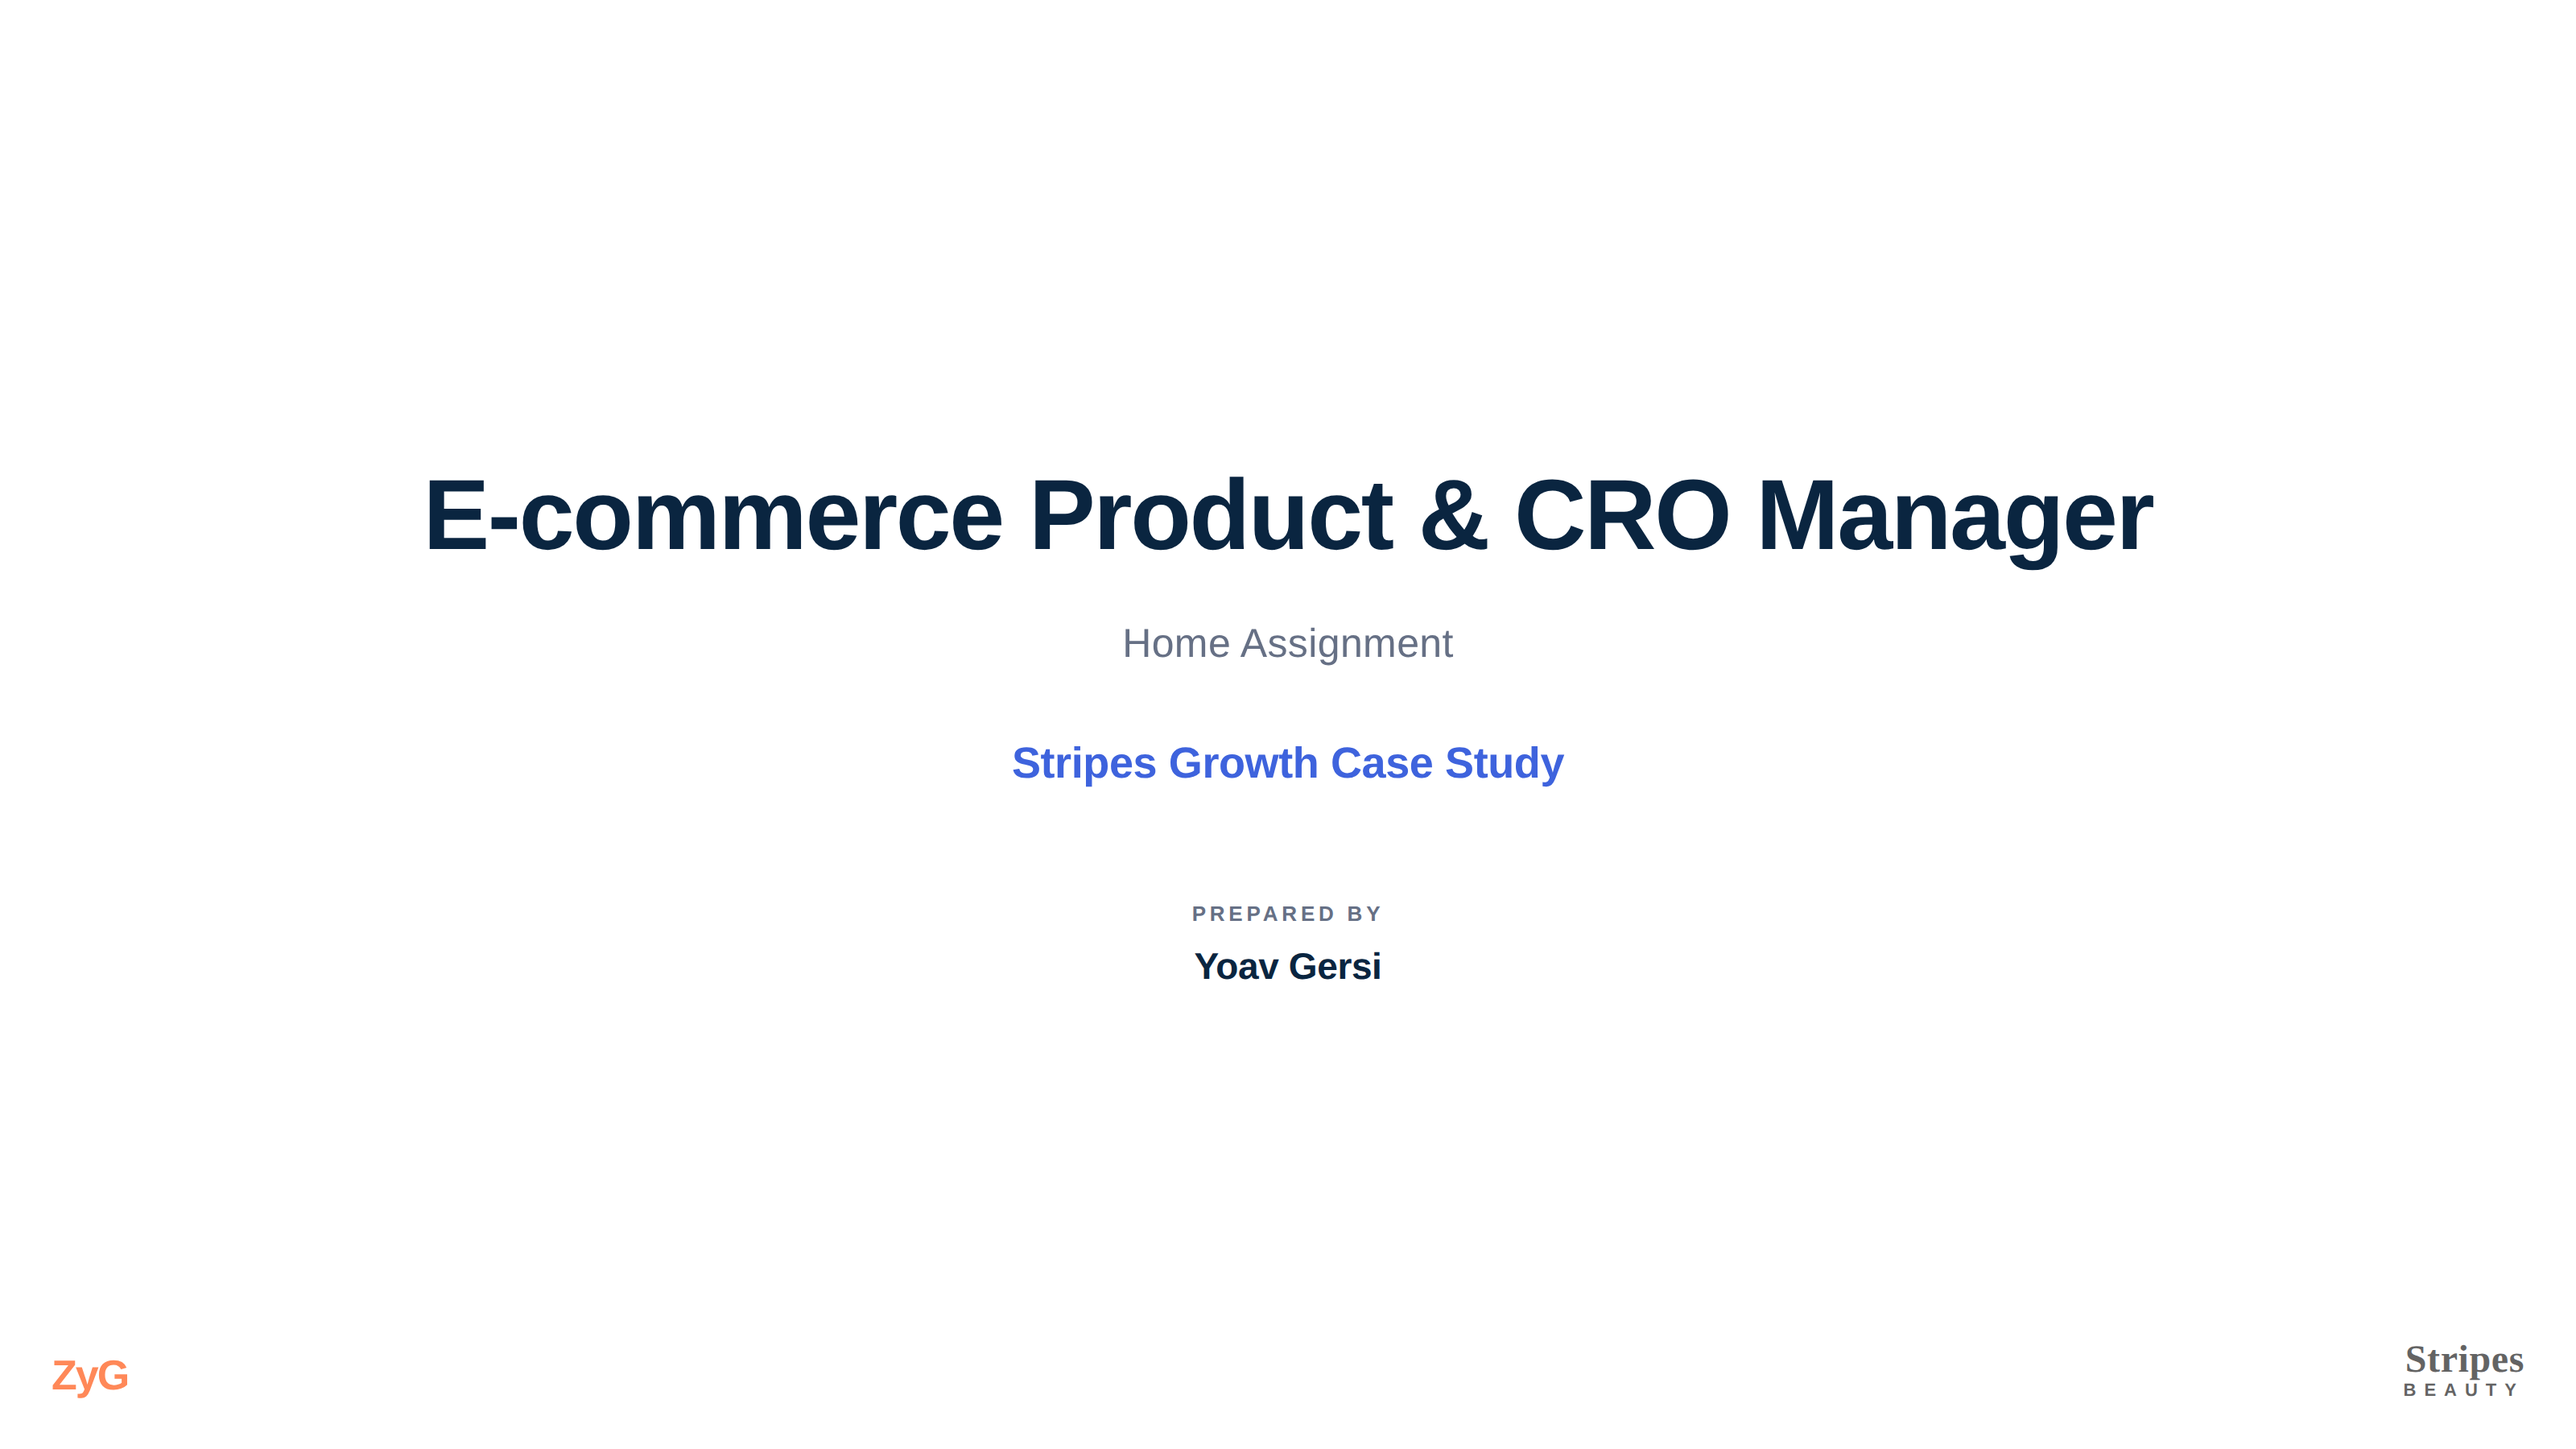
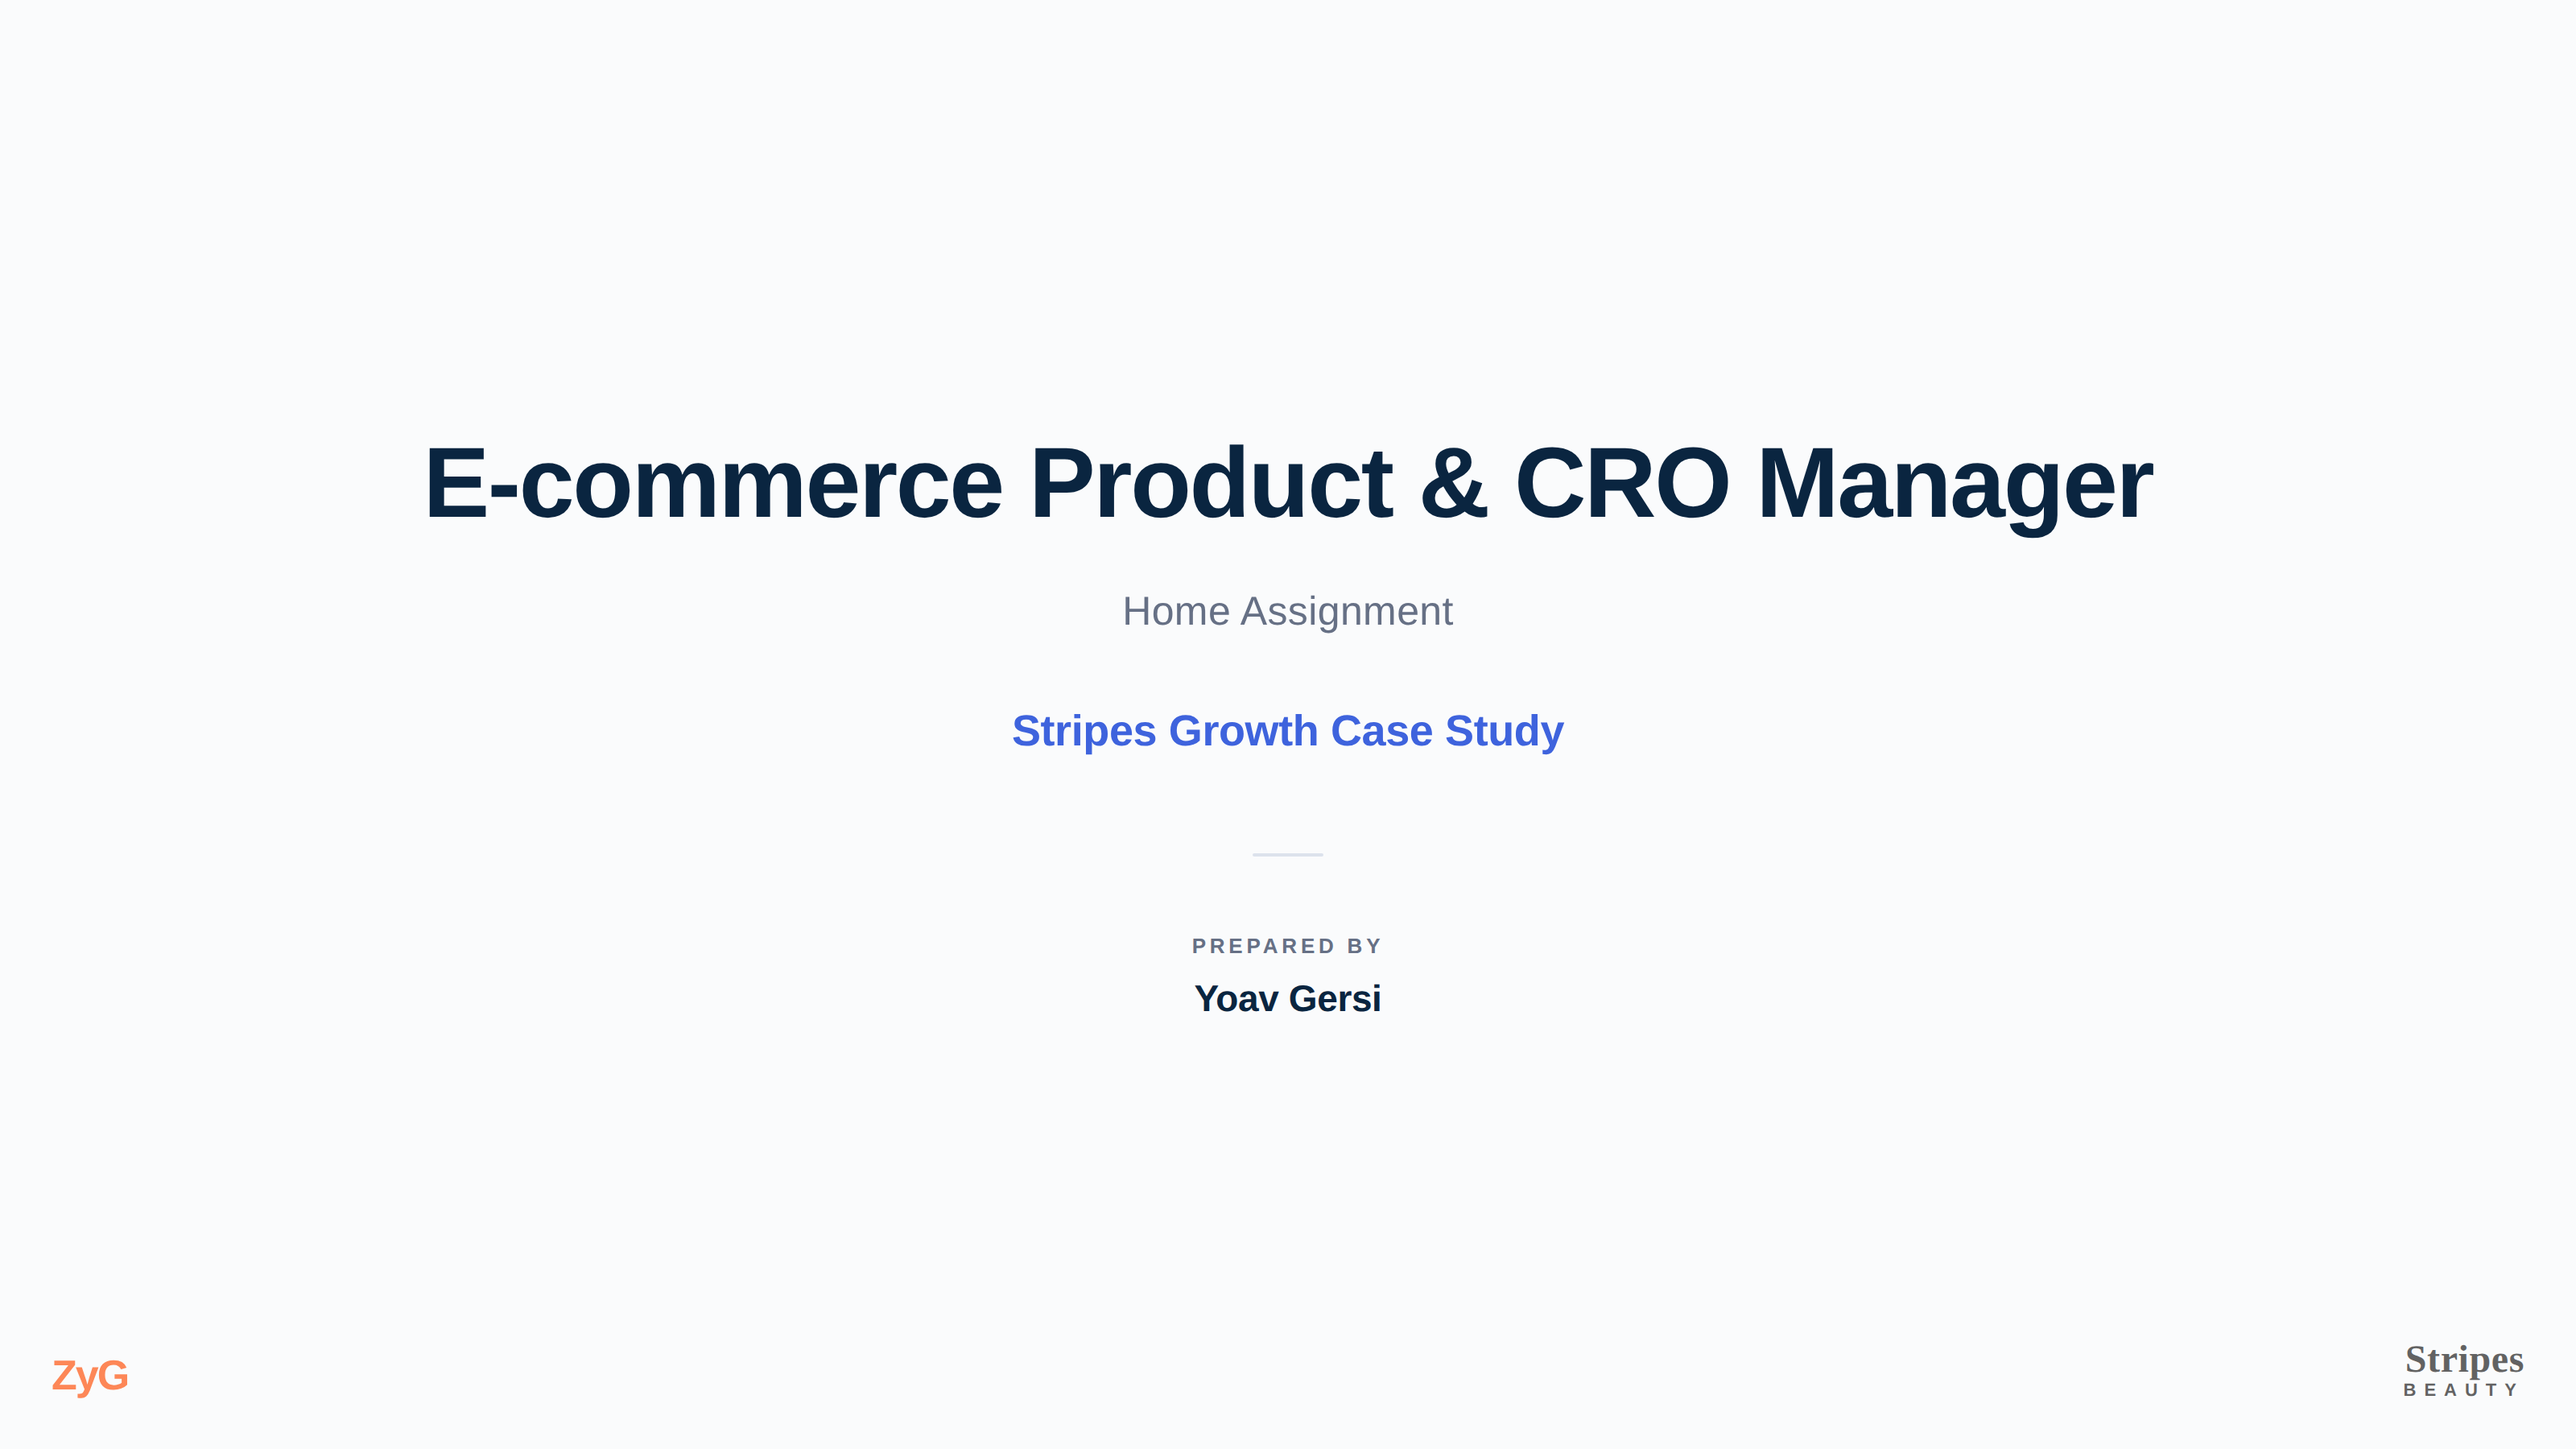
Refine cover: soft light-gray bg + hairline divider
Apply the agreed dials on Slide 1: background to #FAFBFC and a subtle
hairline divider between the case-study line and the prepared-by block.

Claude-Session: https://claude.ai/code/session_01GoAG3ySswQXo2H1hh5EwTk

Changed region(s): [[0.1562, 0.3111, 0.8438, 0.4667], [0.375, 0.4978, 0.625, 0.56], [0.4688, 0.6222, 0.5312, 0.7156]]

diff --git a/diagrams/slides/cover.html b/diagrams/slides/cover.html
@@ -5,7 +5,7 @@
     --blue:#3E63DD;
     --muted:#667085;
     --line:#E6EAF0;
-    --bg:#FFFFFF;
+    --bg:#FAFBFC;
   }
   body{width:1600px;height:900px;background:var(--bg);position:relative;overflow:hidden;
        font-family:'Helvetica Neue',Arial,'Liberation Sans',sans-serif;
@@ -19,7 +19,9 @@
   .assign{margin-top:30px;font-size:25px;font-weight:400;color:var(--muted);letter-spacing:.2px;}
   .case{margin-top:44px;font-size:27px;font-weight:700;color:var(--blue);letter-spacing:-.2px;}
 
-  .by-label{margin-top:70px;font-size:13px;font-weight:700;color:var(--muted);
+  .divider{margin-top:60px;width:44px;height:2px;background:#DCE2EC;border-radius:2px;}
+
+  .by-label{margin-top:48px;font-size:13px;font-weight:700;color:var(--muted);
             letter-spacing:2.4px;text-transform:uppercase;}
   .by-name{margin-top:12px;font-size:23px;font-weight:700;color:var(--navy);letter-spacing:-.2px;}
 
@@ -35,6 +37,7 @@
     <div class="title">E-commerce Product &amp; CRO Manager</div>
     <div class="assign">Home Assignment</div>
     <div class="case">Stripes Growth Case Study</div>
+    <div class="divider"></div>
     <div class="by-label">Prepared by</div>
     <div class="by-name">Yoav Gersi</div>
   </div>
